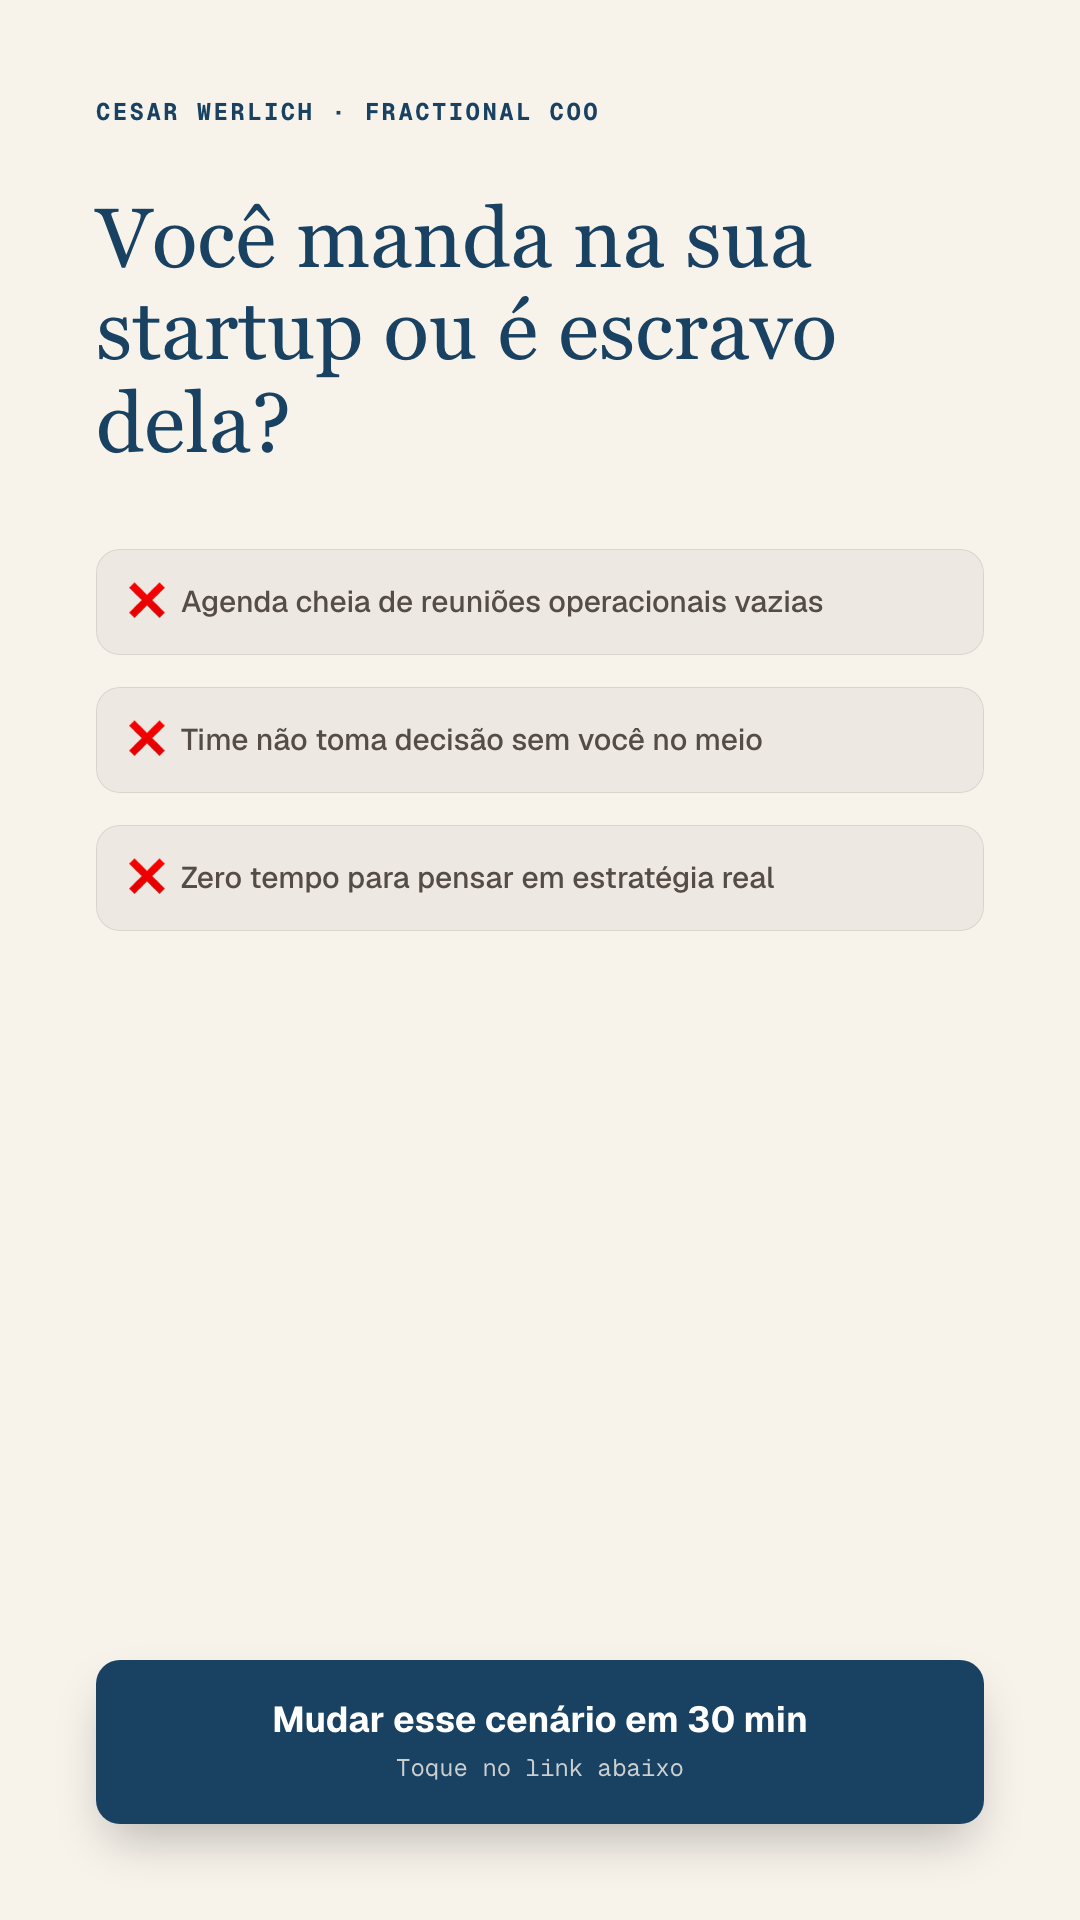
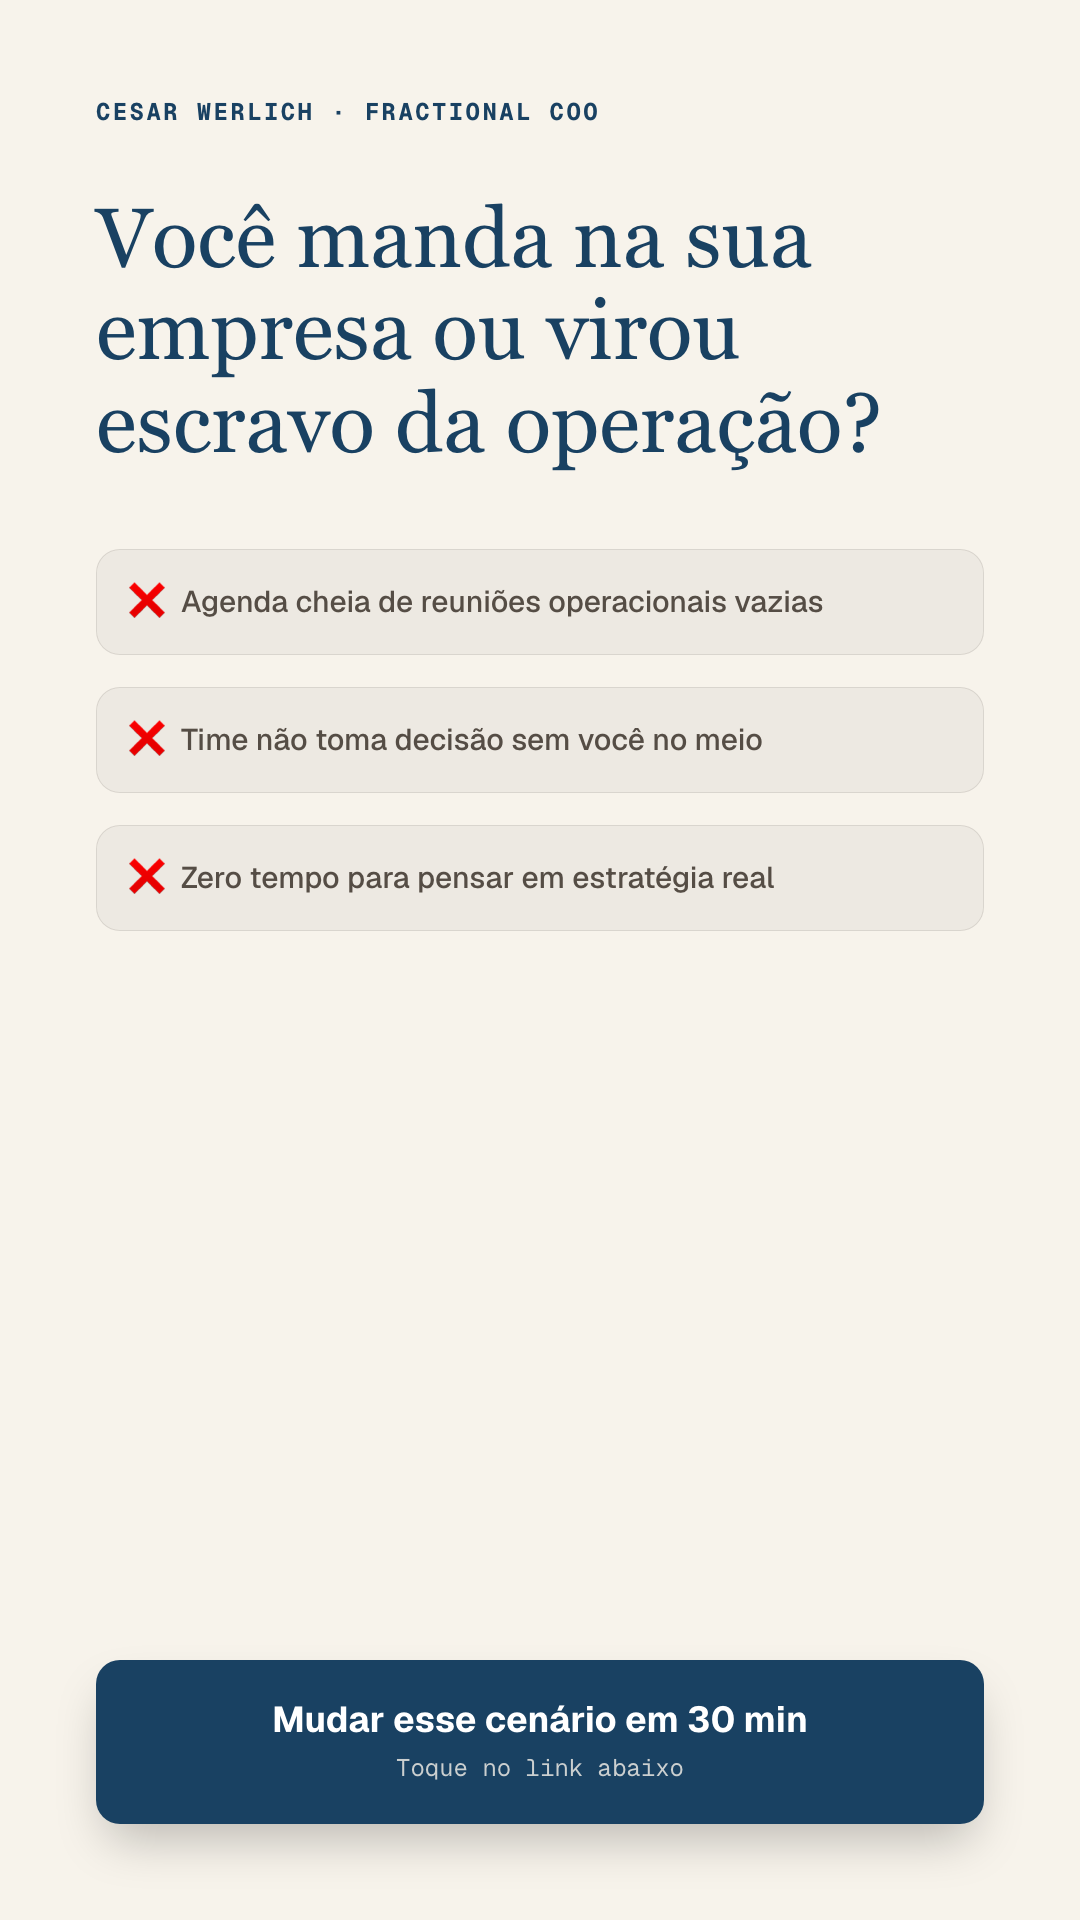
feat(positioning): broaden audience to all B2B businesses, replace fundraising with operational margin, and update all ad assets

Changed region(s): [[0.0917, 0.1562, 0.7944, 0.25], [0.7944, 0.1875, 0.825, 0.2188]]

diff --git a/app/lp/[slug]/page.tsx b/app/lp/[slug]/page.tsx
@@ -72,21 +72,21 @@ const LP_CONFIGS: Record<string, LpConfig> = {
   operacoes: {
     slug: 'operacoes',
     defaultService: 'coo',
-    pageTitle: 'Fractional COO & Escala para Startups B2B',
+    pageTitle: 'Fractional COO & Escala para Empresas B2B',
     tag: 'Fractional COO & Escala Operacional',
     headline:
-      'Fractional COO para Startups B2B: Escale da tração inicial ao Series A sem caos operacional',
+      'Fractional COO para Empresas B2B: Escale suas operações com lucro e previsibilidade sem sobrecarregar o fundador',
     subhead:
-      'A liderança e a governança de um C-level experiente por uma fração do custo de uma contratação full-time. Alinhe cadência executiva, financeiro, pessoas e processos rumo à próxima rodada.',
+      'A liderança e a governança de um C-level experiente por uma fração do custo de uma contratação full-time. Alinhe cadência executiva, financeiro, pessoas e processos para crescer com consistência.',
     ctaButtonText: 'Conversar com um Fractional COO',
     painPointsTitle:
       'Sinais de que o crescimento está gerando desordem interna:',
     painPoints: [
       'O fundador virou o maior gargalo da empresa: tudo depende da sua aprovação diária.',
       'Reuniões longas e improdutivas com prioridades que mudam a cada semana.',
-      'Visibilidade financeira limitada: incerteza sobre o burn rate real, unit economics e runway.',
+      'Visibilidade financeira limitada: incerteza sobre margem real, unit economics e fluxo de caixa.',
       'Gargalos na contratação, onboarding demorado e falta de alinhamento entre as lideranças.',
-      'Ansiedade ou insegurança diante de due diligence e checagens de investidores de venture capital.',
+      'Dificuldade em delegar e dependência excessiva dos sócios para destravar o dia a dia.',
     ],
     deliverablesTitle: 'Como atuamos na sua operação:',
     deliverables: [
@@ -95,16 +95,16 @@ const LP_CONFIGS: Record<string, LpConfig> = {
         desc: 'Implementação de OKRs acionáveis, cadência semanal de alinhamento executivo, eliminação de reuniões inúteis e prestação de contas transparente.',
       },
       {
-        title: 'Controle Financeiro & Projeção de Runway',
-        desc: 'Estruturação do fluxo de caixa, acompanhamento rigoroso do burn rate e modelagem de cenários para estender o runway sem surpresas.',
+        title: 'Controle Financeiro & Gestão de Caixa',
+        desc: 'Estruturação do fluxo de caixa, acompanhamento rigoroso de custos e modelagem de cenários para crescer com margem saudável.',
       },
       {
         title: 'Processos Críticos & Autonomia Operacional',
         desc: 'Documentação ágil de fluxos de trabalho e definição de papéis para que a equipe trabalhe com clareza e autonomia sem depender do fundador a todo instante.',
       },
       {
-        title: 'Preparação para Captação & Data Room',
-        desc: 'Organização antecipada de métricas históricas, contratos, governança e data room para conduzir negociações com VCs a partir de uma posição de força.',
+        title: 'Eficiência Operacional & Margem',
+        desc: 'Otimização de processos, eliminação de retrabalho com tecnologia e automação inteligente para aumentar a rentabilidade do negócio.',
       },
     ],
     proofPoints: [
@@ -123,9 +123,9 @@ const LP_CONFIGS: Record<string, LpConfig> = {
     pageTitle: 'Diagnóstico Operacional & GTM em 2 Semanas',
     tag: 'Sprint Operacional de 2 Semanas',
     headline:
-      'Diagnóstico Operacional & GTM em 2 Semanas para Fundadores B2B SaaS',
+      'Diagnóstico Operacional & GTM em 2 Semanas para Fundadores e Líderes B2B',
     subhead:
-      'Uma auditoria cirúrgica e imersiva para descobrir exatamente onde sua startup está vazando receita, tempo e caixa — com um roadmap tático de 90 dias pronto para execução.',
+      'Uma auditoria cirúrgica e imersiva para descobrir exatamente onde sua empresa está vazando receita, tempo e caixa — com um roadmap tático de 90 dias pronto para execução.',
     ctaButtonText: 'Solicitar Diagnóstico Operacional',
     painPointsTitle: 'Dúvidas e atritos que resolvemos nesta sprint:',
     painPoints: [

diff --git a/app/ads/render/[id]/page.tsx b/app/ads/render/[id]/page.tsx
@@ -37,7 +37,7 @@ export default async function AdRenderPage({
           </div>
 
           <h1 className="font-serif text-[68px] leading-[1.12] text-[#194162] mt-16 tracking-tight font-medium">
-            &ldquo;Se você tirar 10 dias de férias hoje, sua startup cresce ou
+            &ldquo;Se você tirar 14 dias de férias hoje, sua empresa cresce ou
             trava?&rdquo;
           </h1>
 
@@ -118,7 +118,7 @@ export default async function AdRenderPage({
           </div>
 
           <h1 className="font-serif text-[64px] leading-[1.15] text-white mt-14 tracking-tight font-medium">
-            Sua startup tem algum destes 3 sintomas?
+            Sua empresa B2B tem algum destes 3 sintomas?
           </h1>
 
           <div className="mt-10 space-y-4 text-2xl text-[#f7f3eb]/90 font-mono">
@@ -161,7 +161,7 @@ export default async function AdRenderPage({
             Cesar Werlich · Fractional COO
           </div>
           <h1 className="font-serif text-[84px] font-medium text-[#194162] mt-16 leading-[1.1]">
-            Você manda na sua startup ou é escravo dela?
+            Você manda na sua empresa ou virou escravo da operação?
           </h1>
           <div className="mt-20 space-y-8 text-3xl text-[#554d45]">
             <div className="p-8 bg-black/[0.04] rounded-3xl border border-black/5 font-medium flex items-center gap-4">
@@ -197,7 +197,7 @@ export default async function AdRenderPage({
             Máquina de GTM · Saper Vedere
           </div>
           <h1 className="font-serif text-[80px] font-medium text-white mt-16 leading-[1.1]">
-            Quantas reuniões comerciais sua startup fechou esta semana?
+            Quantas reuniões comerciais sua empresa fechou esta semana?
           </h1>
           <p className="text-3xl text-[#f7f3eb]/75 mt-10 leading-relaxed">
             Se a resposta for &ldquo;apenas as que vieram por indicação&rdquo;,
@@ -231,7 +231,8 @@ export default async function AdRenderPage({
             14 dias para mapear todos os gargalos da sua operação.
           </h1>
           <p className="text-3xl text-[#f7f3eb]/70 mt-10 leading-relaxed">
-            Para fundadores B2B que precisam de tração antes da próxima rodada.
+            Para fundadores e sócios B2B que precisam de tração e margem
+            previsível.
           </p>
           <div className="mt-20 space-y-6 text-3xl font-mono text-[#f7f3eb]/85">
             <div className="p-8 bg-white/5 rounded-3xl border border-white/10">
@@ -294,7 +295,7 @@ export default async function AdRenderPage({
               className="text-sm font-mono uppercase tracking-wider font-semibold"
               style={{ color: '#ffffff' }}
             >
-              Startups B2B · Pré-Seed a Series A
+              Empresas B2B · Fundadores & Sócios
             </span>
           </div>
         </div>
@@ -334,7 +335,7 @@ export default async function AdRenderPage({
             <div className="flex items-center gap-2.5 px-4 py-2.5 rounded-xl bg-white/10 border border-white/15 text-sm font-mono">
               <span className="text-[#6cb3df] font-bold">03</span>
               <span className="font-sans font-medium text-white">
-                Preparação para Captação
+                Eficiência Operacional & Margem
               </span>
             </div>
           </div>

diff --git a/app/components/pt/ServicesPt.tsx b/app/components/pt/ServicesPt.tsx
@@ -51,18 +51,18 @@ const offers: Offer[] = [
     featured: true,
   },
   {
-    name: 'Diagnóstico Operacional & Preparação para Captação',
+    name: 'Diagnóstico Operacional & Escala',
     tag: 'Auditoria intensiva · 2 semanas',
     description:
-      'Avaliação completa da operação, métricas de SaaS e estrutura da empresa para destravar gargalos ou blindar a rodada Seed/Series A.',
+      'Avaliação completa da operação, unit economics e processos para destravar gargalos de crescimento e estancar desperdício de caixa.',
     scope: [
-      'Auditoria de métricas SaaS (CAC, LTV, churn, cohorts)',
-      'Identificação de gargalos operacionais e de equipe',
-      'Organização de data room operacional e narrativa',
-      'Plano de ação prioritário para os primeiros 90 dias',
+      'Auditoria de métricas e conversão do funil comercial',
+      'Identificação de gargalos operacionais e dependência do fundador',
+      'Otimização de rotina de liderança, processos e margem',
+      'Plano de ação tático e prioritário para os primeiros 90 dias',
     ],
     duration: '2 semanas (diagnóstico intensivo)',
-    for: 'Fundadores preparando captação ou passando por momento de reestruturação',
+    for: 'Fundadores e sócios buscando destravar a operação ou reestruturar processos',
     href: '/lp/diagnostico',
     ctaText: 'Ver formato do Diagnóstico',
   },
@@ -88,9 +88,9 @@ export default function ServicesPt() {
             Três pilares de atuação.
           </h2>
           <p className="mt-5 text-lg text-[color:var(--ink-soft)]">
-            Formatos desenhados para o estágio da sua empresa: um motor de
+            Formatos desenhados para o momento da sua empresa: um motor de
             vendas focado, uma liderança de operações contínua ou um diagnóstico
-            rápido para captação.
+            intensivo de 2 semanas.
           </p>
         </div>
 

diff --git a/app/components/pt/FitCheckPt.tsx b/app/components/pt/FitCheckPt.tsx
@@ -2,8 +2,8 @@ import Section from '../Section';
 
 const goodFit = [
   'Transição de founder-led sales para máquina de GTM/Outbound repetível',
-  'Pós-captação precisando de cadência operacional e KPIs de execução',
-  'Preparando rodada Seed ou Series A sem tirar o olho da operação diária',
+  'Empresas em expansão precisando de cadência de gestão e KPIs de execução',
+  'Fundadores sobrecarregados apagando incêndios e buscando destravar a operação',
   'Busca alavancagem operacional real no terreno, não consultoria de apresentações',
 ];
 
